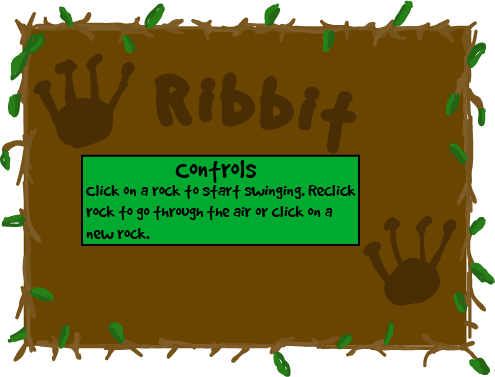
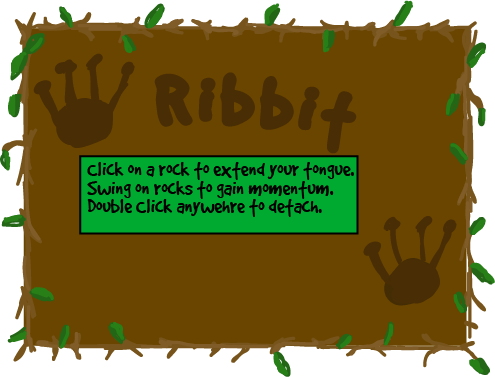
added you win/lose menu

Changed region(s): [[0.1515, 0.4085, 0.7273, 0.6711]]

diff --git a/js/RibbitTS.js b/js/RibbitTS.js
@@ -1,71 +1,12 @@
-var tb1;
-//var testTrigger;
-//var turtorialTween;
-//var fromTween;
 var arrow = [10];
-
-
-var tb1;
-var ca1 = 0;
-var tt1;
-var ft1;
-
-var tb2;
-var ca2 = 0;
-var tt2;
-var ft2;
-
-
-var tb3;
-var ca3 = 0;
-var tt3;
-var ft3;
-
-var tb4;
-var ca4 = 0;
-var tt4;
-var ft4;
-
-var tb5;
-var ca5 = 0;
-var tt5;
-var ft5;
-
-var tb6;
-var ca6 = 0;
-var tt6;
-var ft6;
-
-var tb7;
-var ca7 = 0;
-var tt7;
-var ft7;
-
-var tb8;
-var ca8 = 0;
-var tt8;
-var ft8;
-
-var tb9;
-var ca9 = 0;
-var tt9;
-var ft9;
-
-
-
-
-/*texts will be implemented after arrows
-var text1;
-var text2;
-var text3;
-var text4;
-var text5;
-*/
-
+var endMenu;
+var homeButton;
+var nextButton;
+var restartGame;
 
 function checkTriggers(){
 	for(var i = 0; i < 10; i++){ //when i add 10th arrow it will be success
-	if (top_down.game.physics.arcade.intersects(frog,arrow[i].tb))
+	if (top_down.game.physics.arcade.intersects(frog, arrow[i].tb))
 				arrow[i].enterBox();
 				
 		if(!(top_down.game.physics.arcade.intersects(frog, arrow[i].tb)))
@@ -74,25 +15,74 @@ function checkTriggers(){
 		
 			arrow[i].ca = arrow[i].arrow.alpha;
 	}
-			
 
 }
 
+var complete = false;
+function endLevel(){
+	if(!complete){
+	endMenu = top_down.game.add.sprite(top_down.game.camera.x + 512 - (495/2), top_down.game.camera.y + 312 - (377/2), 'winmenu');
+	homeButton = top_down.game.add.sprite(top_down.game.camera.x + 512 - 80, top_down.game.camera.y + 312 + 60, 'home');
+	nextButton = top_down.game.add.sprite(top_down.game.camera.x + 512 + 16, top_down.game.camera.y + 312 + 6, 'next');
+	homeButton.inputEnabled = true;
+	homeButton.events.onInputDown.add(goHome, this);
+	nextButton.inputEnabled = true;
+	nextButton.events.onInputDown.add(nextLevel, this);
+	complete = true;
+	}else{
+		endMenu.x = top_down.game.camera.x + 512 - (495/2);
+		endMenu.y = top_down.game.camera.y + 312 - (377/2);
+		homeButton.x = top_down.game.camera.x + 512 - 80;
+		homeButton.y = top_down.game.camera.y + 312 + 60;
+		nextButton.x = top_down.game.camera.x + 512 + 16;
+		nextButton.y = top_down.game.camera.y + 312 + 60;
 
+	}
+}
+
+function nextLevel(){
+	createGame(currentLevel + 1);
+}
+
+var lost = false;
+function lostLevel(){
+	if(!lost){
+	endMenu = top_down.game.add.sprite(top_down.game.camera.x + 512 - (495/2), top_down.game.camera.y + 312 - (377/2), 'losemenu');
+	homeButton = top_down.game.add.sprite(top_down.game.camera.x + 512 - 80, top_down.game.camera.y + 312 + 60, 'home');
+	restartGame = top_down.game.add.sprite(top_down.game.camera.x + 512 + 16, top_down.game.camera.y + 312 + 60, 'restart');
+	homeButton.inputEnabled = true;
+	homeButton.events.onInputDown.add(goHome, this);
+	restartGame.inputEnabled = true;
+	restartGame.events.onInputDown.add(restartLevel, this);
+	lost = true;
+	}else{
+		endMenu.x = top_down.game.camera.x + 512 - (495/2);
+		endMenu.y = top_down.game.camera.y + 312 - (377/2);
+		homeButton.x = top_down.game.camera.x + 512 - 80;
+		homeButton.y = top_down.game.camera.y + 312 + 60;
+		restartGame.x = top_down.game.camera.x + 512 + 16;
+		restartGame.y = top_down.game.camera.y + 312 + 60;
+		
+	}
+}
 
 function addTrigger(){
 	switch(currentLevel){
 	case 1:
+		var controls = top_down.game.add.sprite(352, 2552, 'gameControls');
+		controls.anchor.setTo(.5, 0);
 		arrow[0] = new Arrow(208, 2320, 402, 208, 1, 0, 736, 2128, 't0');
-		arrow[1] = new Arrow(608, 2032, 1, 1, 1, 1, 1024, 2336, 't1');
+		arrow[1] = new Arrow(608, 2032, 2, 2, 1, 1, 944, 2208, 't1');
 		arrow[2] = new Arrow(752, 2336, 416, 176, .5, .5, 1184, 2464, 'right');
 		arrow[3] = new Arrow(1456, 2224, 320, 256, .5, .5, 1440, 2208, 'up');
 		arrow[4] = new Arrow(1392, 1408, 320, 480, 0, 0, 1376, 1776, 'upleft');
 		arrow[5] = new Arrow(944, 1376, 496, 464, 0, 1, 1152, 1872, 't2');
 		arrow[6] = new Arrow(464, 1360, 448, 400, .5, .5, 704, 1520, 'upleft');
 		arrow[7] = new Arrow(208, 928, 416, 384, .5, .5, 592, 1104, 'up');
-		arrow[8] = new Arrow(752, 512, 416, 480, .5, .5, 1088, 624, 't3');
-		arrow[9] = new Arrow(1552, 880, 224, 96, .5, .5, 1696, 864, 't4');
+		
+		arrow[8] = new Arrow(368, 448, 1.473, 1, .5, .5, 800, 736, 't3');
+		
+		arrow[9] = new Arrow(752, 512, 416, 480, .5, .5, 1248, 624, 't4');
 		break;
 	case 2:
 		arrow[0] = new Arrow(208, 2320, 402, 208, 1, 0, 736, 2128, 't0');
@@ -226,8 +216,6 @@ function addTrigger(){
 		arrow[8] = new Arrow(752, 512, 416, 480, .5, .5, 1088, 624, 't3');
 		arrow[9] = new Arrow(1552, 880, 224, 96, .5, .5, 1696, 864, 't4');
 		break;
-	default:
-		//nothing yet...
 	}
 }
 

diff --git a/js/RibbitPreload.js b/js/RibbitPreload.js
@@ -101,10 +101,16 @@ top_down.Preload.prototype = {
 		
 		//texts + arrows
 		this.load.image('t0', 'Ribbit/clickonrock.png'); //upright "clock on rock"
-		this.load.image('t1', 'Ribbit/swing.png');		 //downright "try to swing around"
+		this.load.image('t1', 'Ribbit/detach.png');		 //no arrow, double click to let go
 		this.load.image('t2', 'Ribbit/avoidFire.png');	 //downleft	  "avoid the fire"
-		this.load.image('t3', 'Ribbit/landAt.png');      //downright  "land at castle"
-		this.load.image('t4', 'Ribbit/levelcomplete.png'); //no arrow just says level complete
+		this.load.image('t3', 'Ribbit/reachCastle.png');
+		this.load.image('t4', 'Ribbit/landAt.png');      //downright  "land at castle"
+
+		
+		this.load.image('gameControls', 'Ribbit/controlsLevelOne.png');
+		this.load.image('winmenu', 'Ribbit/youwin.png');
+		this.load.image('next', 'Ribbit/NextLevel.png');
+		this.load.image('losemenu', 'Ribbit/youlose.png');
 		
 	},
 	

diff --git a/js/RibbitGame.js b/js/RibbitGame.js
@@ -280,11 +280,11 @@ function moveObjToXY(obj, x, y, speed){
 }
 
 function frogWins(){
-	alert("You have won!\nTry out another level.");
+	endLevel();
 }
 
 function frogDies(){
-	alert("You have died.\nGame will now restart.");
+	lostLevel();
 }
 
 function initRocks(rockLayerData){
@@ -600,6 +600,7 @@ function showHelp(){
 
 function restartLevel(){
 	killAll();
+	lost = false;
 	shootMarker(0, 0);
 	tongueBeingRetracted = true;
 	curRock = null;
@@ -732,5 +733,7 @@ top_down.Game.prototype = {
 		if(gameState == 'gameStart'){
 			checkTriggers();
 		}
+		if(complete)
+			endLevel();
 	}
 }
